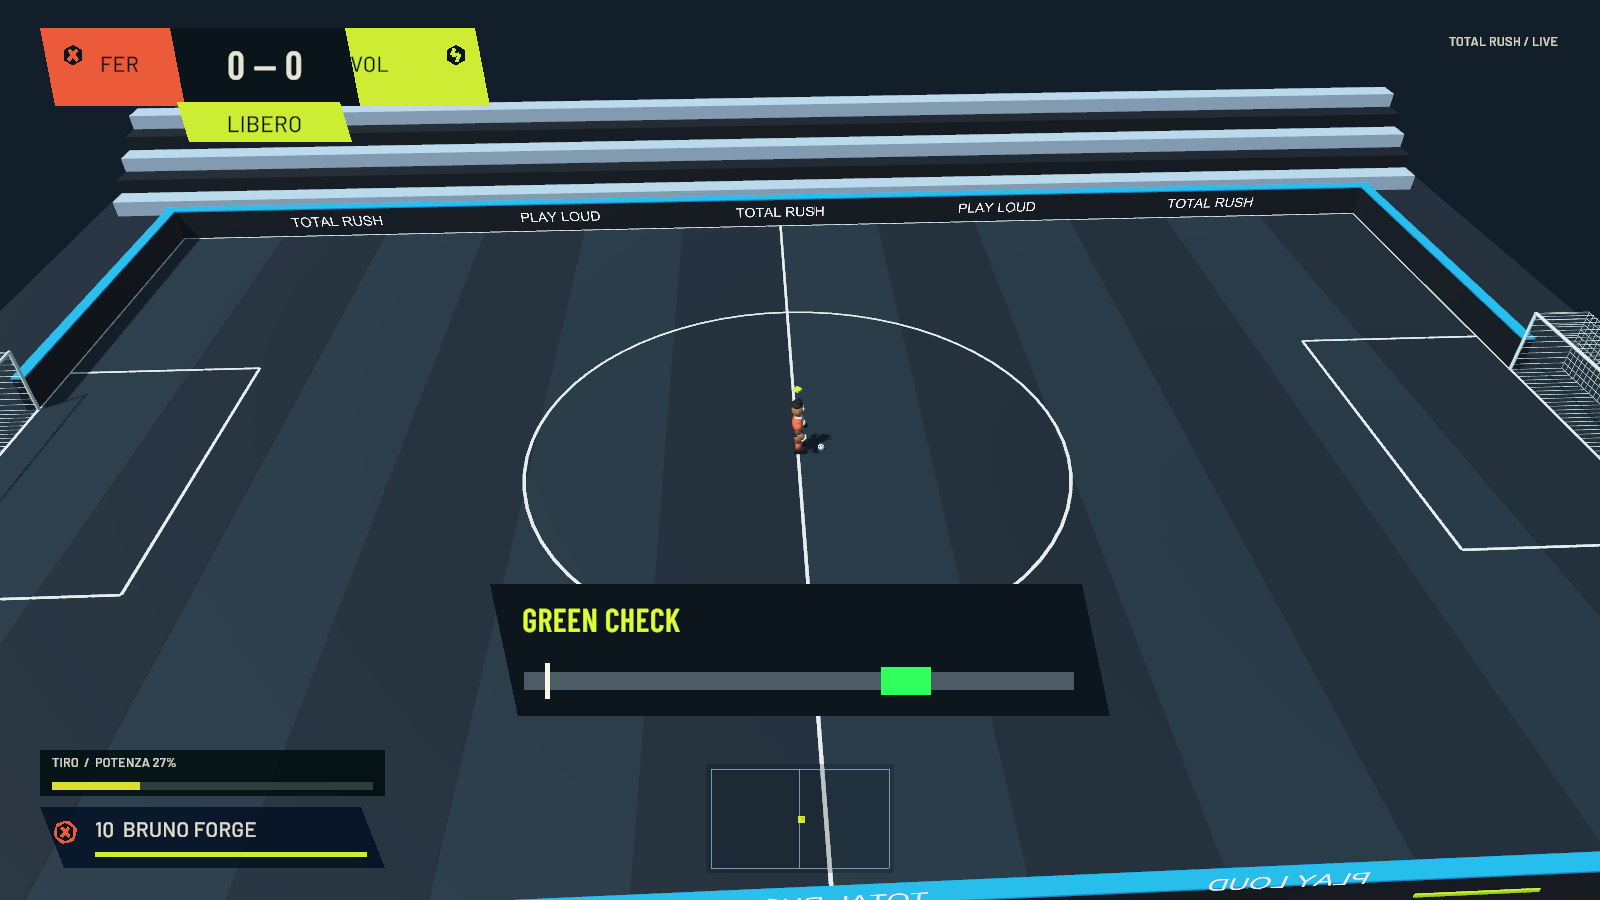
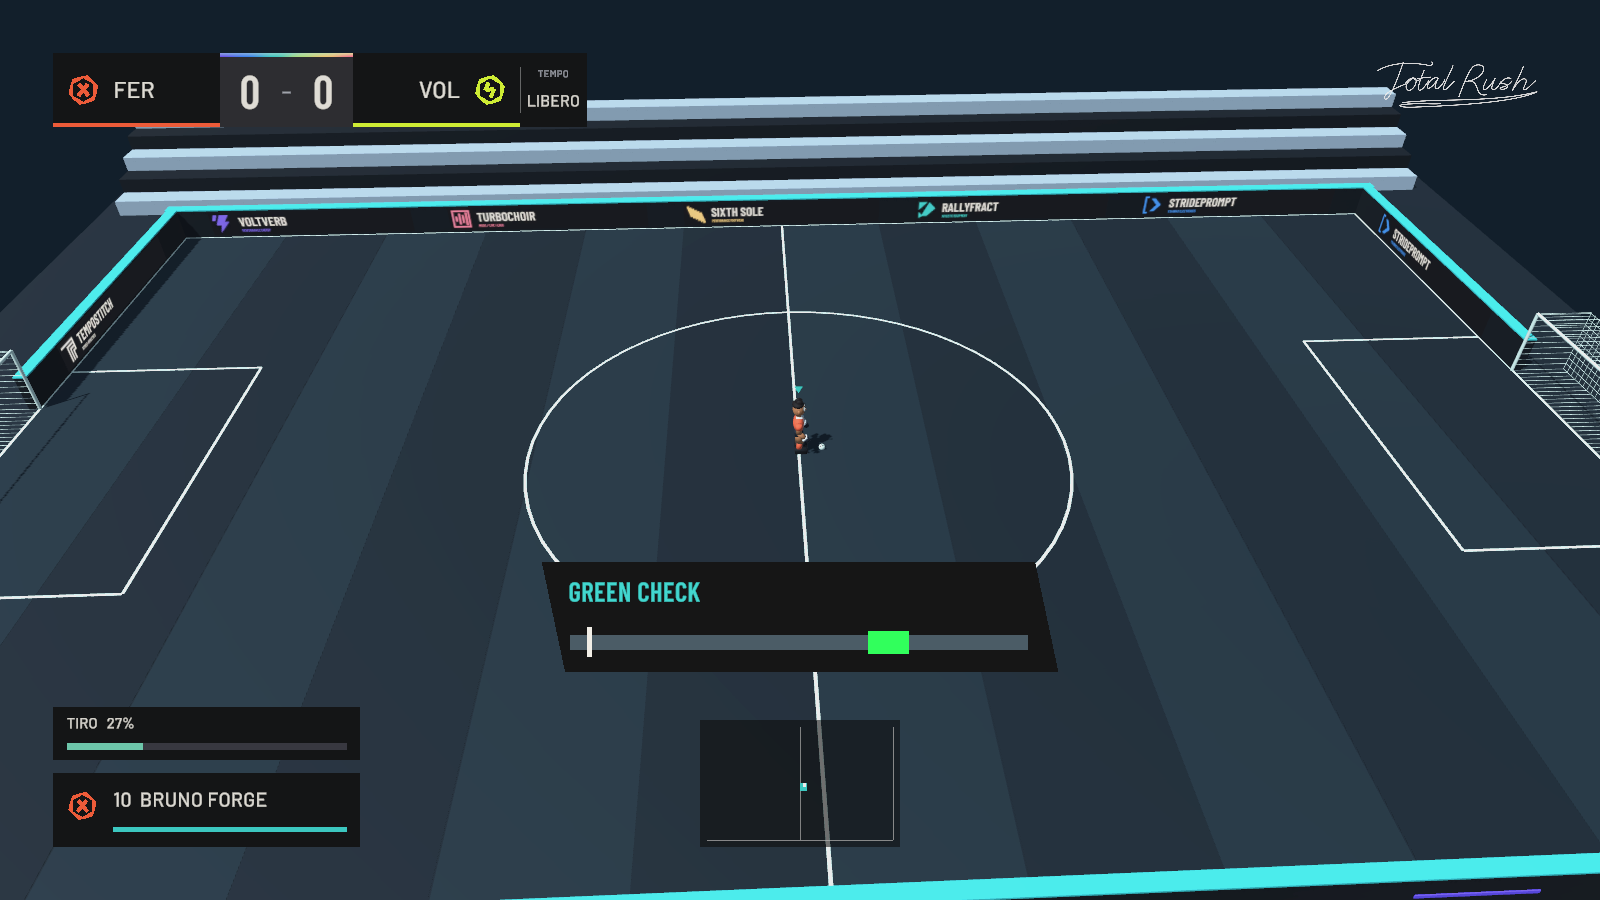
Total Rush 0.1.2: Prismatic Rush menus, HUD and fictional sponsors

diff --git a/README.md b/README.md
@@ -5,7 +5,7 @@
 <p align="center"><img src="docs/assets/total-rush-icon.png" alt="Icona Total Rush" width="112"></p>
 
 <p align="center"><strong>Calcio arcade. Squadre originali. Nessun freno.</strong></p>
-<p align="center">macOS Apple Silicon · Windows x64 · Versione 0.1.1</p>
+<p align="center">macOS Apple Silicon · Windows x64 · Versione 0.1.2</p>
 
 <p align="center">
   <a href="https://github.com/YooTommy-CH/total-rush/releases/latest"><strong>SCARICA TOTAL RUSH</strong></a>
@@ -16,6 +16,12 @@
 </p>
 
 ![Il menu di Total Rush, con la firma originale e un capitano 3D](docs/assets/menu.png)
+
+## Prismatic Rush — 0.1.2
+
+Una nuova identità visiva: carta chiara, antracite e luce prismatica. Menu con capitano 3D integrato, selezione delle squadre contrapposte, impostazioni ridisegnate e transizioni direzionali. Il nuovo tabellone mantiene punteggio e timer in colonne stabili; energia, potenza, radar e risultati condividono la stessa geometria. Otto sponsor immaginari originali animano i cartelloni dell’arena.
+
+![La nuova selezione delle squadre](docs/assets/teams.png)
 
 ## Entra nell’arena
 
@@ -45,7 +51,7 @@ Il cursore resta in tempo reale. Il tempismo perfetto scatena un tiro elettrico 
 | **Il Circuito** | Una stagione fra le otto squadre originali. |
 | **Allenamento** | Campo libero, partitella, rigori e punizioni. |
 
-![Il Rush Strike nell’arena di Total Rush](docs/assets/arena.png)
+![Il nuovo HUD nell’arena di Total Rush](docs/assets/arena.png)
 
 ## Comandi essenziali
 
@@ -66,7 +72,7 @@ Tiri a giro, potenti, rasoterra e trivela: modificatori nella schermata **Impost
 
 ## Download e aggiornamenti
 
-Scarica **[Total Rush 0.1.1](https://github.com/YooTommy-CH/total-rush/releases/tag/v0.1.1)** per macOS Apple Silicon o Windows x64. La build macOS è firmata con Developer ID e notarizzata da Apple. Su Mac è disponibile anche un **DMG personalizzato**, con installazione trascinando l’app in Applicazioni. App ed eseguibile si chiamano ora **Total Rush.app** e **Total Rush.exe**.
+Scarica **[Total Rush 0.1.2](https://github.com/YooTommy-CH/total-rush/releases/tag/v0.1.2)** per macOS Apple Silicon o Windows x64. La build macOS è firmata con Developer ID e notarizzata da Apple. Su Mac è disponibile anche un **DMG personalizzato**, con installazione trascinando l’app in Applicazioni. App ed eseguibile si chiamano ora **Total Rush.app** e **Total Rush.exe**.
 
 **Passaggio dalla 0.1.0:** scarica e installa manualmente questa versione una volta, perché sono cambiati i nomi dei pacchetti. Dalla 0.1.1 il gioco controlla gli aggiornamenti all’apertura: **Aggiorna ora** scarica e verifica il pacchetto, chiude l’app, installa e riapre il gioco. La libreria personale e i salvataggi restano nel profilo del dispositivo. La soundtrack personale, le copertine e il codice sorgente non sono distribuiti in questo repository.
 
@@ -86,6 +92,6 @@ Abbinamento anche per ordine delle parole, maiuscole, accenti e piccole differen
 
 Anteprima giocabile in sviluppo, realizzata con Unity 6.6 e URP. Le immagini sono catture della build del gioco, senza sfondi generati. Squadre, personaggi, simboli e identità sono originali; nessun personaggio o asset Nintendo incluso.
 
-La build macOS è stata eseguita e verificata. La build Windows è compilata e richiede ancora prove su hardware Windows. Il risultato di 60 FPS su M1 di base resta da misurare. Online e multiplayer locale non sono inclusi nella 0.1.1.
+La build macOS è stata eseguita e verificata. La build Windows è compilata e richiede ancora prove su hardware Windows. Il risultato di 60 FPS su M1 di base resta da misurare. Online e multiplayer locale non sono inclusi nella 0.1.2.
 
 Attribuzioni e licenze di animazioni, font e dipendenze sono incluse nell’app. Vedi [CREDITI.md](CREDITI.md).

diff --git a/CHANGELOG.md b/CHANGELOG.md
@@ -1,5 +1,17 @@
 # Novità
 
+## Total Rush 0.1.2 — Prismatic Rush
+
+- Nuova composizione del menu: capitano 3D integrato, titoli grandi, modalità in basso, colori prismatici e superfici chiare/scure. Firma e icona esistenti conservate.
+- Transizioni sovrapposte, selezioni animate, illuminazione del capitano reattiva e suoni di navigazione originali. Opzione movimento ridotto.
+- Selezione CASA/OSPITI contrapposta, stemmi grandi, cambio squadra animato e avvio disabilitato per squadre identiche.
+- Impostazioni ridisegnate, con categorie e righe allineate. Tutte le opzioni video, audio, gioco e interfaccia conservate.
+- Tabellone ricostruito con celle punteggio fisse, timer integrato e reazioni al gol. Nuove targhe giocatori, stamina, potenza, radar, indicatore di controllo ed eventi partita. Risultati ridisegnati.
+- Otto sponsor immaginari con simboli e loghi originali; quattordici cartelloni animati con un solo atlas e materiale condiviso.
+- Layout verificati da 960×540 a 4K, compresi ultrawide e 16:10; 1440p, ultrawide e 4K verificati con rendering fuori schermo alle dimensioni esatte.
+- Gameplay e raccolta musicale personale conservati. DMG macOS personalizzato.
+
+
 ## Total Rush 0.1.1
 
 - DMG personalizzato solo macOS, con sfondo Retina, firma del gioco e installazione trascinando l’app in Applicazioni.

diff --git a/INSTALLAZIONE.md b/INSTALLAZIONE.md
@@ -1,11 +1,11 @@
 # Installare Total Rush
 
-Scarica **[Total Rush 0.1.1](https://github.com/YooTommy-CH/total-rush/releases/tag/v0.1.1)**.
+Scarica **[Total Rush 0.1.2](https://github.com/YooTommy-CH/total-rush/releases/tag/v0.1.2)**.
 
 
 ## macOS Apple Silicon
 
-1. Scarica `TotalRush-0.1.1-macOS-arm64.dmg` e aprilo.
+1. Scarica `TotalRush-0.1.2-macOS-arm64.dmg` e aprilo.
 2. Nella finestra personalizzata trascina **Total Rush** su **Applicazioni**. Espelli il disco dopo la copia.
 3. Apri **Total Rush.app** da Applicazioni.
 
@@ -23,7 +23,7 @@ Non estrarre i singoli file direttamente sul Desktop. La build usa Direct3D 11 e
 
 ## Aggiornare dal gioco
 
-Se provieni dalla **0.1.0**, installa manualmente la 0.1.1 una volta: i vecchi pacchetti avevano un altro nome.
+Se provieni dalla **0.1.0**, installa manualmente la versione corrente una volta: i vecchi pacchetti avevano un altro nome.
 
 Dalla 0.1.1 all’apertura viene controllata l’ultima versione stabile. Premi **Aggiorna ora**, attendi la verifica e lascia che l’app si chiuda e si riapra. Il pulsante **Aggiornamenti** nel menu permette di avviare un controllo manuale.
 

diff --git a/CREDITI.md b/CREDITI.md
@@ -2,6 +2,8 @@
 
 **Total Rush:** personaggi cartooneschi, rig, firma, icone, simboli delle squadre, arena, interfaccia e suoni sintetizzati originali del progetto.
 
+**Sponsor immaginari originali:** Voltverb, Turbochoir, Sixth Sole, Rallyfract, Strideprompt, Tempostitch, Zonefern e Bassbracket. Simboli e wordmark disegnati per Total Rush.
+
 **Animazioni:** locomozione Quaternius Universal Animation Library Standard, CC0. Calcio adattato da animazioni Meshy già autorizzate, retargettate sui nuovi personaggi. Attribuzione: Tommaso / Meshy AI — “Model rigged/animated with Meshy”, [CC BY 4.0](https://creativecommons.org/licenses/by/4.0/).
 
 **Font:** Barlow, Jeremy Tribby / Barlow Project; Liberation Sans. SIL Open Font License. Testi delle licenze inclusi nell’app.
